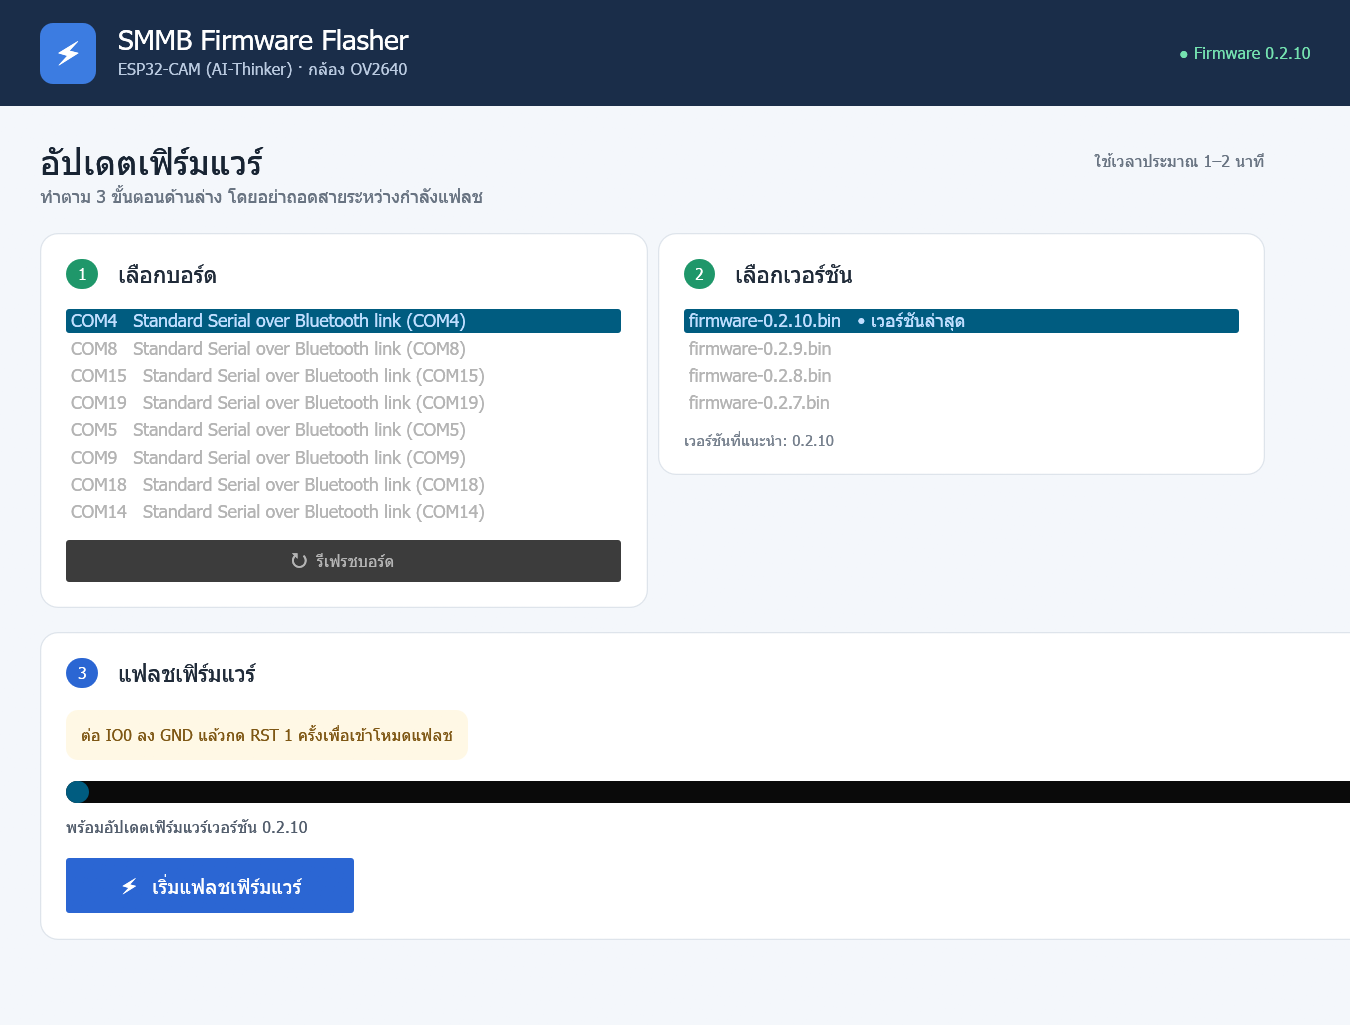
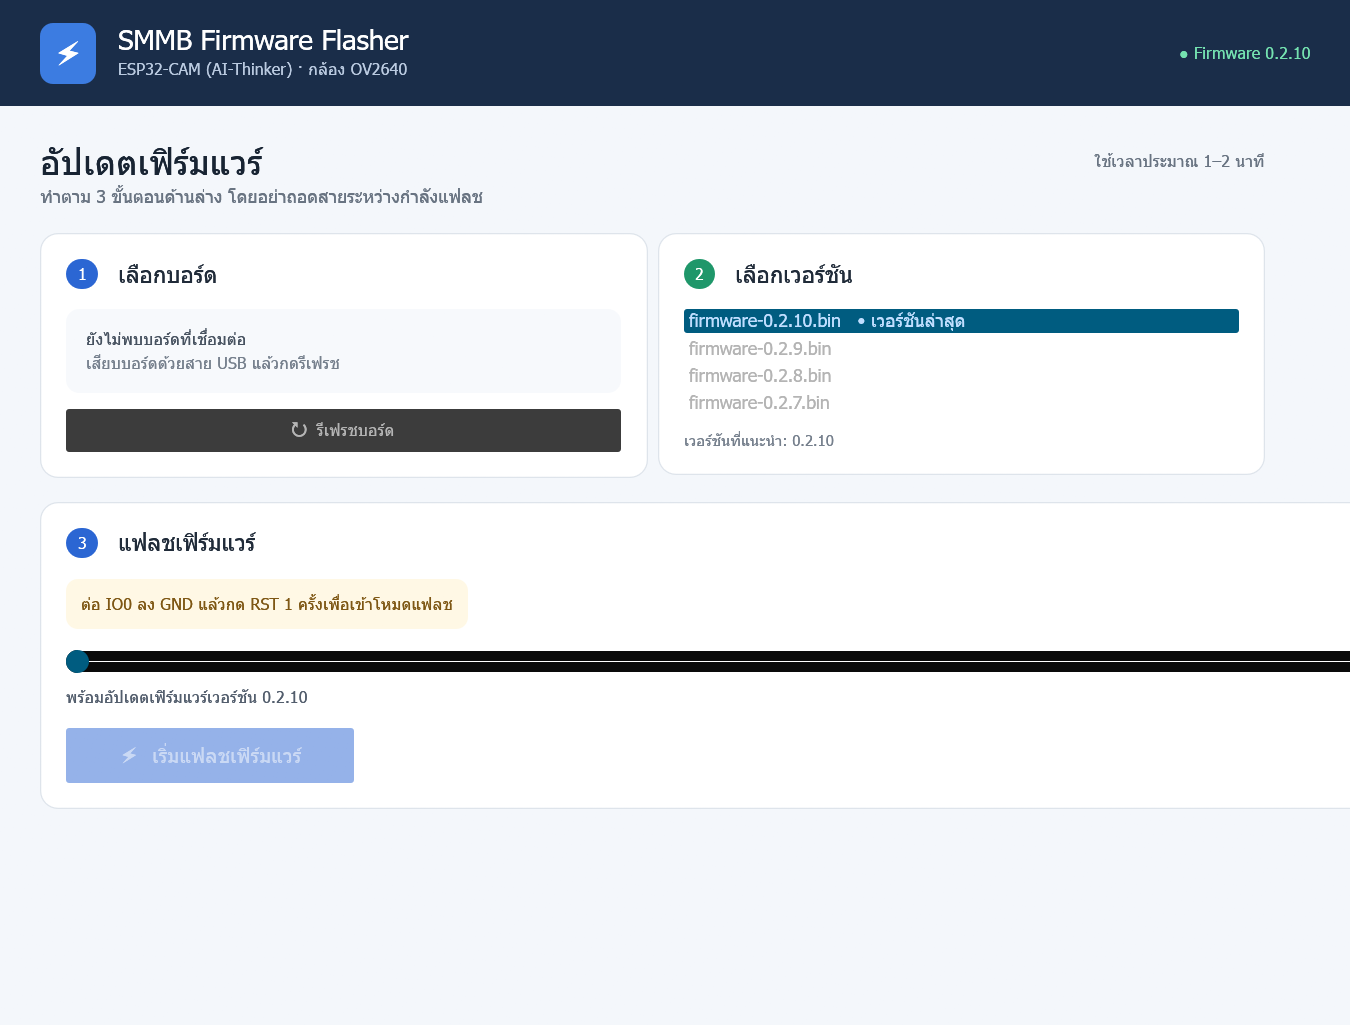
admin screen fix and firmware version update

Changed region(s): [[0.0311, 0.6244, 1.0, 0.9054], [0.0311, 0.2498, 0.4667, 0.5932]]

diff --git a/firmware-program/app/src/main.rs b/firmware-program/app/src/main.rs
@@ -1,3 +1,5 @@
+#![cfg_attr(target_os = "windows", windows_subsystem = "windows")]
+
 use eframe::egui::{self, Align, Color32, FontData, FontDefinitions, FontFamily, FontId, Frame, Layout, Margin, RichText, Stroke, Vec2};
 use std::fs;
 use std::path::{Path, PathBuf};
@@ -6,7 +8,7 @@ use std::sync::mpsc::{self, Receiver};
 use std::time::{Duration, Instant};
 
 const APP_TITLE: &str = "SMMB Firmware Flasher";
-const LATEST_FIRMWARE_VERSION: &str = "0.2.10";
+const LATEST_FIRMWARE_VERSION: &str = "0.2.11";
 const TARGET_BOARD: &str = "ESP32-CAM (AI-Thinker)";
 const SUPPORTED_CAMERA: &str = "OV2640";
 const FLASH_BAUD: &str = "460800";
@@ -37,6 +39,7 @@ struct FirmwareApp {
     progress: f32,
     message: String,
     result_rx: Option<Receiver<Result<String, String>>>,
+    board_scan_rx: Option<Receiver<Vec<BoardPort>>>,
     screenshot_path: Option<PathBuf>,
     rendered_frames: u32,
     screenshot_requested: bool,
@@ -46,18 +49,22 @@ impl FirmwareApp {
     fn new(context: &eframe::CreationContext<'_>, screenshot_path: Option<PathBuf>) -> Self {
         configure_fonts(&context.egui_ctx);
         configure_style(&context.egui_ctx);
-        let boards = find_boards();
         let firmwares = find_firmwares();
+        let (board_sender, board_receiver) = mpsc::channel();
+        std::thread::spawn(move || {
+            let _ = board_sender.send(find_boards());
+        });
         Self {
-            selected_board: (!boards.is_empty()).then_some(0),
+            selected_board: None,
             selected_firmware: (!firmwares.is_empty()).then_some(0),
-            boards,
+            boards: Vec::new(),
             firmwares,
             last_refresh: Instant::now(),
             state: FlashState::Ready,
             progress: 0.0,
             message: format!("พร้อมอัปเดตเฟิร์มแวร์เวอร์ชัน {LATEST_FIRMWARE_VERSION}"),
             result_rx: None,
+            board_scan_rx: Some(board_receiver),
             screenshot_path,
             rendered_frames: 0,
             screenshot_requested: false,
@@ -65,12 +72,28 @@ impl FirmwareApp {
     }
 
     fn refresh_boards(&mut self) {
-        let previous = self.selected_board.and_then(|index| self.boards.get(index)).map(|board| board.port.clone());
-        self.boards = find_boards();
-        self.selected_board = previous
-            .and_then(|port| self.boards.iter().position(|board| board.port == port))
-            .or_else(|| (!self.boards.is_empty()).then_some(0));
+        if self.board_scan_rx.is_some() {
+            return;
+        }
+        let (sender, receiver) = mpsc::channel();
+        self.board_scan_rx = Some(receiver);
         self.last_refresh = Instant::now();
+        std::thread::spawn(move || {
+            let _ = sender.send(find_boards());
+        });
+    }
+
+    fn poll_board_scan(&mut self) {
+        let scanned_boards = self.board_scan_rx.as_ref().and_then(|receiver| receiver.try_recv().ok());
+        if let Some(boards) = scanned_boards {
+            let previous = self.selected_board.and_then(|index| self.boards.get(index)).map(|board| board.port.clone());
+            self.boards = boards;
+            self.selected_board = previous
+                .and_then(|port| self.boards.iter().position(|board| board.port == port))
+                .or_else(|| (!self.boards.is_empty()).then_some(0));
+            self.board_scan_rx = None;
+            self.last_refresh = Instant::now();
+        }
     }
 
     fn start_flash(&mut self) {
@@ -212,7 +235,7 @@ impl FirmwareApp {
                 Self::step_header(ui, "3", "แฟลชเฟิร์มแวร์", self.state == FlashState::Success);
                 ui.add_space(14.0);
                 Frame::new().fill(Color32::from_rgb(255, 248, 229)).corner_radius(9).inner_margin(Margin::same(12)).show(ui, |ui| {
-                    ui.label(RichText::new("ต่อ IO0 ลง GND แล้วกด RST 1 ครั้งเพื่อเข้าโหมดแฟลช").color(Color32::from_rgb(126, 87, 20)).strong());
+                    ui.label(RichText::new("กดปุ่ม IO0 ค้างไว้ กดปุ่ม RST 1 ครั้ง แล้วปล่อย IO0 เพื่อเข้าโหมดแฟลช").color(Color32::from_rgb(126, 87, 20)).strong());
                 });
                 ui.add_space(14.0);
                 ui.add(egui::ProgressBar::new(self.progress).desired_width(f32::INFINITY).animate(self.state == FlashState::Flashing));
@@ -230,7 +253,7 @@ impl FirmwareApp {
                         self.start_flash();
                     }
                     if self.state == FlashState::Success {
-                        ui.label(RichText::new("✓ เสร็จเรียบร้อย ถอด IO0 จาก GND แล้วกด RST").color(Color32::from_rgb(24, 139, 91)).strong());
+                        ui.label(RichText::new("✓ เสร็จเรียบร้อย กดปุ่ม RST 1 ครั้งเพื่อเริ่มใช้งาน").color(Color32::from_rgb(24, 139, 91)).strong());
                     }
                 });
             });
@@ -245,6 +268,7 @@ impl eframe::App for FirmwareApp {
         if self.last_refresh.elapsed() >= REFRESH_INTERVAL && self.state != FlashState::Flashing {
             self.refresh_boards();
         }
+        self.poll_board_scan();
         self.poll_flash();
         self.draw(ui);
         self.rendered_frames += 1;

diff --git a/firmware-program/investigation.cany/investigation/handoff.md b/firmware-program/investigation.cany/investigation/handoff.md
@@ -1,3 +1,3 @@
 # Handoff
 
-เพิ่ม app/.gitignore เพื่อไม่รวม target/, target-build/, target-verify/, shots/ และ *.pdb; ใช้ cargo clean ล้าง build artifacts เดิมรวมประมาณ 6.4 GiB แล้ว build ใหม่สำเร็จด้วย cargo build --offline --locked --target-dir target. rebuild_check ล่าสุดผ่านทั้ง build และ app-screenshot (1350×1025). Unknown เดิมเรื่อง firmware offset/partition table และ USB VID/PID ยังไม่ได้แก้เพราะไม่เกี่ยวกับงาน cleanup รอบนี้.
+ปรับ app/src/main.rs ให้คำแนะนำตรงกับบอร์ดสำเร็จที่มีปุ่ม IO0 และ RST: กด IO0 ค้าง กด RST แล้วปล่อย IO0 เพื่อเข้าโหมดแฟลช; หลังสำเร็จกด RST เพื่อเริ่มใช้งาน. cargo build --offline --locked --target-dir target-verify สำเร็จ และ rebuild_check ผ่านทั้ง build กับ app-screenshot (1350×1025). target เดิมถูกโปรเซสแอปที่เปิดอยู่ล็อก จึงใช้ target-verify สำหรับการตรวจ build. Unknown เดิมเรื่อง firmware offset/partition table และ USB VID/PID ไม่เกี่ยวกับการแก้ข้อความครั้งนี้.
